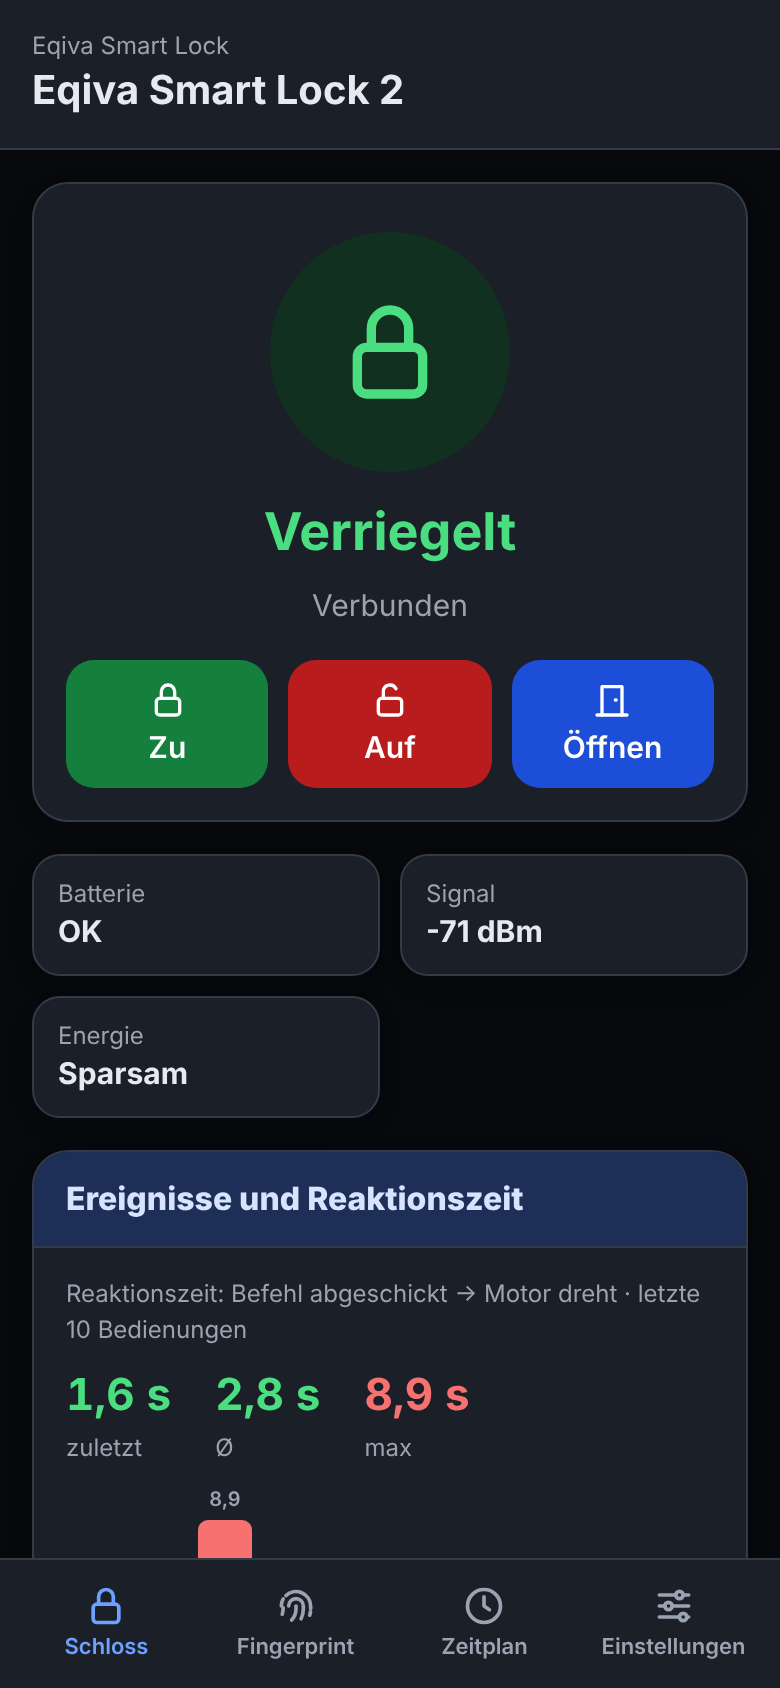
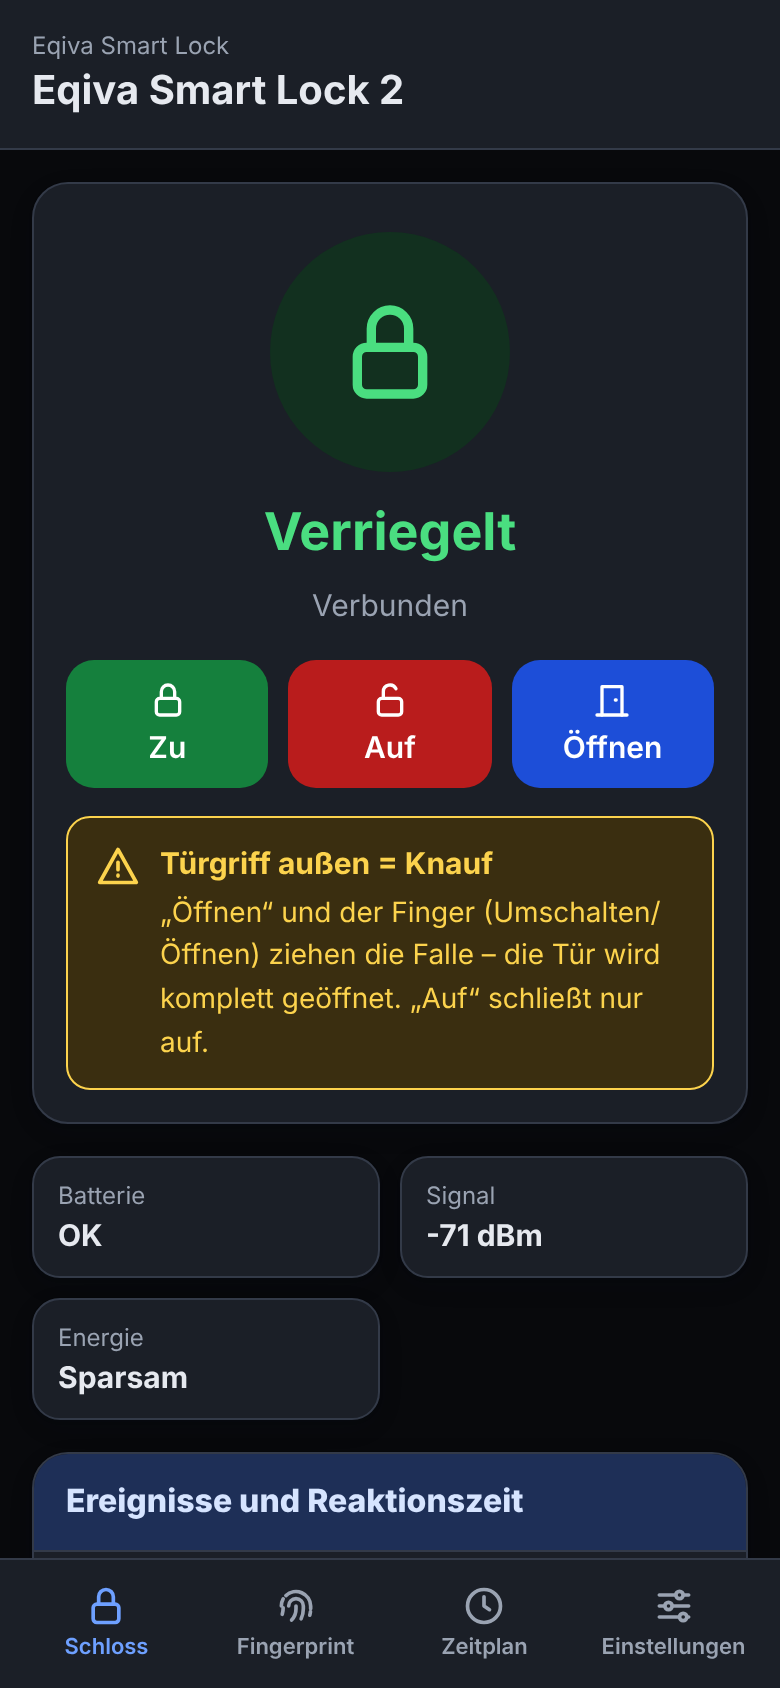
3.5.4: Öffnen-Protokoll, Sabotage-Prüfung, grünes Blinken, Knauf-Hinweise
- Komponente: Öffnen gilt als ausgeführt, wenn 10 s nach UNLOCKED kein OPENED kommt (statt ✗ nach 60 s)
- Komponente: Reaktionszeiten mit "; " getrennt (Umbruch in der Expertenansicht)
- Fingerprint: Sabotage-Prüfung nicht mehr im 1-s-Intervall und nicht während Schlossaktionen; 2× grün nach Erkennen
- Web-App: Knauf-Hinweis auf Startseite und in Einstellungen, Aktionsbeschreibungen passend zu "Türgriff außen"
- Versionsnummern 3.5.4, CHANGELOG (Ordner-Hinweis klarer), ANLEITUNG, PATCH-NOTES, FORK-CHANGES, Screenshots

Claude-Session: https://claude.ai/code/session_01YXeYDb8hKaoF5eCYLR3NkB

diff --git a/examples/eqiva-smart-lock-app.js b/examples/eqiva-smart-lock-app.js
@@ -1,5 +1,5 @@
 // Eqiva Smart Lock – Web-App für die ESPHome-Web-GUI
-// Version 3.5.3 (2026-11-09) – alle Dateien mit gleicher Version gehören zusammen (inkl. eqiva_components)
+// Version 3.5.4 (2026-11-09) – alle Dateien mit gleicher Version gehören zusammen (inkl. eqiva_components)
 // Wird über "web_server: js_include: eqiva-smart-lock-app.js" in die Firmware eingebettet (gzip, ca. 15 KB).
 // Liest alle Werte live über /events (Server-Sent Events) und bedient über die REST-Schnittstelle
 // des ESP (POST /<domain>/<Name>/<aktion>). Läuft ohne Internet. Die ESPHome-Tabelle bleibt als
@@ -7,7 +7,7 @@
 // Fehlt ein Paket (Fingerprint, Zeitplan, …), blendet die App den Bereich einfach aus.
 (function () {
   'use strict';
-  const APP_VERSION = '3.5.3';
+  const APP_VERSION = '3.5.4';
   const GUIDE_URL = 'https://github.com/2nice4u/esphome-components-eqiva/blob/main/docs/ANLEITUNG.md';
 
   // ---------------------------------------------------------------- Zustand
@@ -96,6 +96,10 @@
   const ACTIONS = ['Standard', 'Umschalten', 'Aufschließen', 'Zuschließen', 'Öffnen', 'Nur Klingel', 'Gesperrt'];
   const ACTION_HINT = ['nutzt die Standard-Aktion', 'zu → öffnen, offen → zuschließen', 'nur aufschließen',
     'nur zuschließen', 'aufschließen und Falle ziehen', 'keine Schlossaktion, nur Klingel', 'vorübergehend deaktiviert'];
+  // Beschreibung passend zu "Türgriff außen": bei Türklinke schließen Umschalten/Öffnen nur auf
+  const knauf = () => txt('select/Türgriff außen') !== 'Türklinke';
+  const actionHint = (i) => i === 1 ? (knauf() ? 'zu → öffnen (Falle ziehen), offen → zuschließen' : 'zu → aufschließen, offen → zuschließen') :
+    i === 4 ? (knauf() ? 'aufschließen und Falle ziehen' : 'nur aufschließen (Türgriff außen = Türklinke)') : ACTION_HINT[i];
   const FINGERS = ['Daumen', 'Zeigefinger', 'Mittelfinger', 'Ringfinger', 'Kleiner Finger'];
   const FSHORT = ['Daumen', 'Zeige', 'Mittel', 'Ring', 'Klein'];
   const HANDS = ['Links', 'Rechts'];
@@ -243,7 +247,7 @@
   function reactionHead() {
     if (!has('text_sensor/Reaktionszeiten')) return '';
     const RA = { z: ['lockF', 'zu'], a: ['unlock', 'auf'], o: ['door', 'öffnen'] };
-    const r = txt('text_sensor/Reaktionszeiten').split(';').map((s) => { const p = s.split('|'); return { act: p[0], v: Number(p[1]), src: p[2] || '' }; })
+    const r = txt('text_sensor/Reaktionszeiten').split(/;\s*/).map((s) => { const p = s.split('|'); return { act: p[0], v: Number(p[1]), src: p[2] || '' }; })
       .filter((e) => RA[e.act] && isFinite(e.v));
     if (!r.length) return '';
     const f = (v) => v.toFixed(1).replace('.', ',') + ' s', vals = r.map((e) => e.v), last = r[r.length - 1];
@@ -271,7 +275,8 @@
       btn('unlock', icon('unlock', 20) + 'Auf', 'big r') +
       btn('open', icon('door', 20) + 'Öffnen', 'big bl') +
       '</div>') +
-      (txt('select/Türgriff außen') === 'Türklinke' ? '<p class="note">Türgriff außen = Türklinke: „Öffnen“ schließt nur auf.</p>' : ''));
+      (txt('select/Türgriff außen') === 'Türklinke' ? '<p class="note">Türgriff außen = Türklinke: „Öffnen“ schließt nur auf.</p>' :
+        txt('select/Türgriff außen') === 'Knauf' ? '<div class="knauf">' + icon('alert', 22) + '<div><b>Türgriff außen = Knauf</b><span>„Öffnen“ und der Finger (Umschalten/Öffnen) ziehen die Falle – die Tür wird komplett geöffnet. „Auf“ schließt nur auf.</span></div></div>' : ''));
     const tiles = [];
     if (has('binary_sensor/Batterie schwach')) tiles.push(['Batterie', on('binary_sensor/Batterie schwach') ? 'Schwach' : 'OK', on('binary_sensor/Batterie schwach') ? 'warn' : '']);
     if (has('sensor/Schloss Signal')) { const v = Number(val('sensor/Schloss Signal', NaN)); tiles.push(['Signal', isFinite(v) ? Math.round(v) + ' dBm' : '–', '']); }
@@ -342,7 +347,7 @@
         }).join('') + '</div>';
     } else if (w.step === 3) {
       body = '<p class="q">Was soll der Finger tun?</p><div class="list">' + ACTIONS.map((a, i) =>
-        '<button type="button" class="opt' + (w.action === i ? ' sel' : '') + '" data-a="w-action" data-x="' + i + '"><b>' + a + '</b><span>' + ACTION_HINT[i] + '</span></button>').join('') + '</div>';
+        '<button type="button" class="opt' + (w.action === i ? ' sel' : '') + '" data-a="w-action" data-x="' + i + '"><b>' + a + '</b><span>' + actionHint(i) + '</span></button>').join('') + '</div>';
     } else if (w.step === 4 && w.mode === 'assign') {
       body = '<div class="live"><div class="ring2 rs-blue">' + icon('finger', 44) + '</div>' +
         '<p><b>Jetzt den Finger von Platz ' + w.slot + ' auflegen</b></p>' +
@@ -400,7 +405,7 @@
     if (s.type === 'finger') {
       h = '<h2>' + esc(s.person) + ' · ' + HANDS[s.hand] + ', ' + FINGERS[s.finger] + '</h2><p class="muted">Speicherplatz ' + s.slot + '</p>' +
         '<p class="q">Aktion</p><div class="list">' + ACTIONS.map((a, i) =>
-          '<button type="button" class="opt' + (s.action === i ? ' sel' : '') + '" data-a="f-action" data-x="' + i + '"><b>' + a + '</b><span>' + ACTION_HINT[i] + '</span></button>').join('') + '</div>' +
+          '<button type="button" class="opt' + (s.action === i ? ' sel' : '') + '" data-a="f-action" data-x="' + i + '"><b>' + a + '</b><span>' + actionHint(i) + '</span></button>').join('') + '</div>' +
         '<div class="foot">' + btn('f-reenroll', 'Neu anlernen', 'b') +
         (S.confirm === 'del' ? btn('f-delete', 'Wirklich löschen', 'b danger') : btn('ask-del', 'Löschen', 'b')) + '</div>';
     } else if (s.type === 'person') {
@@ -608,6 +613,8 @@
     if (has('switch/Simulation: Schloss erreichbar')) h += grp('Testmodus (Simulation)', [toggle('switch/Simulation: Schloss erreichbar', 'Schloss erreichbar'),
       num('number/Simulation: Fahrzeit', 'Fahrzeit'), has('button/Simulation: von Hand drehen') ? '<div class="foot">' + btn('press', 'Von Hand drehen', 'b', 'button/Simulation: von Hand drehen') + '</div>' : '']);
     h += grp('Schloss', [choice('select/Energiemodus', 'Energiemodus'), choice('select/Türgriff außen', 'Türgriff außen'),
+      (!has('select/Türgriff außen') ? '' : knauf() ? '<div class="knauf sm">' + icon('alert', 18) + '<span>„Öffnen“ und „Umschalten“ per Finger ziehen die Falle. Der Motor dreht über „auf“ hinaus, bis die Tür frei ist – ohne eingebautes Schloss läuft er dabei lange.</span></div>' :
+        '<p class="muted small">„Öffnen“ und „Umschalten“ schließen nur auf, die Klinke drückt man selbst.</p>'),
       num('number/Ausgewogen: Verbindungsabstand', 'Ausgewogen: Abstand'), num('number/Sparsam: Trennen nach Leerlauf', 'Sparsam: trennen nach'),
       num('number/Sparsam: Status-Abfrage alle', 'Sparsam: Status alle')]);
     h += grp('Fingerprint', [choice('select/Standard-Aktion (Finger ohne Zuordnung)', 'Standard-Aktion'), toggle('switch/Klingel bei unbekanntem Finger', 'Klingel bei unbekanntem Finger'),
@@ -847,7 +854,7 @@ html:not(.eqa-expert) esp-app{display:none}html.eqa-expert #eqa{display:none}
 #eqa-back{position:fixed;right:16px;bottom:16px;z-index:20;display:none;min-height:44px;padding:0 16px;border:0;border-radius:12px;background:#1D4ED8;color:#fff;font:600 14px system-ui,sans-serif;box-shadow:0 4px 14px rgba(0,0,0,.25);cursor:pointer}
 html.eqa-expert #eqa-back{display:block}
 #eqa *{box-sizing:border-box}#eqa h1{margin:0;font-size:20px;font-weight:700}#eqa h2{margin:0 0 8px;font-size:17px;font-weight:700}#eqa h3{margin:0 0 10px;padding-bottom:8px;border-bottom:2px solid var(--accs);font-size:16px;font-weight:700;color:var(--acci)}
-#eqa p{margin:6px 0}#eqa .muted{color:var(--muted)}#eqa .small{font-size:12px}#eqa .note{font-size:13px;color:var(--wr)}
+#eqa p{margin:6px 0}#eqa .muted{color:var(--muted)}#eqa .small{font-size:12px}#eqa .note{font-size:13px;color:var(--wr)}#eqa .knauf{display:flex;gap:10px;align-items:flex-start;margin-top:14px;padding:12px 14px;border-radius:12px;background:var(--wrb);color:var(--wr);border:1.5px solid var(--wr)}#eqa .knauf b{display:block;font-size:15px;margin-bottom:2px}#eqa .knauf span{font-size:14px;line-height:1.35}#eqa .knauf svg{flex:none;margin-top:1px}#eqa .knauf.sm{margin-top:8px;padding:10px 12px}#eqa .knauf.sm span{font-size:13px}
 #eqa header{position:sticky;top:0;z-index:5;display:flex;align-items:center;gap:12px;padding:14px 16px;background:var(--card);border-bottom:1px solid var(--line)}
 #eqa .brand{display:flex;flex-direction:column;flex:1;min-width:0}#eqa .brand h1{white-space:nowrap;overflow:hidden;text-overflow:ellipsis}
 #eqa main{max-width:1100px;margin:0 auto;padding:16px 16px 96px}

diff --git a/components/eqiva_key_ble/eqiva_key_ble.cpp b/components/eqiva_key_ble/eqiva_key_ble.cpp
@@ -588,6 +588,7 @@ void EqivaKeyBle::sendCommand(CommandType command) {
     reaction_act_ = command == LOCK ? 'z' : (command == UNLOCK ? 'a' : 'o');
     reaction_src_ = ev_pending_src_.substr(0, 16);
     ev_reaction_ms_ = 0;
+    ev_open_unlocked_ = false;
     cmd_source_.clear();
   }
   if (this->simulate_) {
@@ -909,11 +910,12 @@ void EqivaKeyBle::sim_tick_() {
 // ---------------------------------------------------------------
 static const char *const EV_TAG = "eqiva_event";
 
-void EqivaKeyBle::log_event(const std::string &text) {
-  time_t now = ::time(nullptr);
-  if (now < 1600000000) now = 0;         // Uhrzeit noch unbekannt
+void EqivaKeyBle::log_event(const std::string &text) { this->log_event_at_(text, ::time(nullptr)); }
+
+void EqivaKeyBle::log_event_at_(const std::string &text, time_t t) {
+  if (t < 1600000000) t = 0;             // Uhrzeit noch unbekannt
   ESP_LOGI(EV_TAG, "%s", text.c_str());
-  events_.push_front({now, text});
+  events_.push_front({t, text});
   while (events_.size() > 10) events_.pop_back();
   this->publish_events_();
 }
@@ -958,11 +960,12 @@ void EqivaKeyBle::on_lock_state_(uint8_t st) {
     reaction_hist_.push_back({reaction_act_, (uint16_t) ms, reaction_src_});
     if (reaction_hist_.size() > 10) reaction_hist_.erase(reaction_hist_.begin());
     if (this->reaction_sensor_ != nullptr) this->reaction_sensor_->publish_state(ms / 1000.0f);
-    // Format je Eintrag: Aktion|Sekunden|Quelle, Einträge mit ";" getrennt (z|4.1|Zeitplan 1;a|3.0|HA/Web)
+    // Format je Eintrag: Aktion|Sekunden|Quelle, Einträge mit "; " getrennt (z|4.1|Zeitplan 1; a|3.0|HA/Web).
+    // Das Leerzeichen erlaubt den Zeilenumbruch in der ESPHome-Expertenansicht.
     std::string list;
     for (size_t i = 0; i < reaction_hist_.size(); i++) {
       char buf[32];
-      snprintf(buf, sizeof(buf), "%s%c|%.1f|", i ? ";" : "", reaction_hist_[i].act, reaction_hist_[i].ms / 1000.0f);
+      snprintf(buf, sizeof(buf), "%s%c|%.1f|", i ? "; " : "", reaction_hist_[i].act, reaction_hist_[i].ms / 1000.0f);
       list += buf + reaction_hist_[i].src;
     }
     this->publish_(this->reaction_list_sensor_, list);
@@ -979,17 +982,10 @@ void EqivaKeyBle::on_lock_state_(uint8_t st) {
   if (ev_pending_ >= 0) {
     const uint8_t want = ev_pending_ == LOCK ? 3 : (ev_pending_ == UNLOCK ? 2 : 4);
     if (st == want) {
-      std::string dur;
-      if (ev_reaction_ms_ > 0) {         // Reaktionszeit mit Dezimalkomma anhängen
-        char b[16];
-        snprintf(b, sizeof(b), " (%.1f s)", ev_reaction_ms_ / 1000.0f);
-        for (char *c = b; *c; c++) if (*c == '.') *c = ',';
-        dur = b;
-      }
-      this->log_event(std::string(icon[st]) + " " + ev_pending_src_ + dur);
-      if (ev_pending_ == OPEN) { hand_quiet_ = true; hand_quiet_since_ = now; }
-      ev_pending_ = -1;
-      ev_reaction_ms_ = 0;
+      this->ev_success_(st, now, ::time(nullptr));
+    } else if (ev_pending_ == OPEN && st == 2 && ev_moved_) {
+      // Öffnen gefahren, Schloss meldet "auf": auf OPENED warten, sonst nach 10 s als Erfolg werten (ev_tick_)
+      if (!ev_open_unlocked_) { ev_open_unlocked_ = true; ev_open_unlocked_ms_ = now; ev_open_unlocked_t_ = ::time(nullptr); }
     } else if (ev_moved_ && !(ev_pending_ == OPEN && st == 2)) {
       // nach der Fahrt ein anderer Endzustand -> Befehl nicht ausgeführt
       this->log_event(std::string("✗ ") + (want == 3 ? "zu" : want == 2 ? "auf" : "öffnen") + " " +
@@ -1011,17 +1007,38 @@ void EqivaKeyBle::on_lock_state_(uint8_t st) {
   ev_last_state_ = st;
 }
 
+// Befehl bestätigt: Ereignis "🔒 Quelle (2,4 s)" mit Zeitpunkt t
+void EqivaKeyBle::ev_success_(uint8_t st, uint32_t now, time_t t) {
+  static const char *const icon[] = {"", "", "🔓", "🔒", "🚪"};
+  std::string dur;
+  if (ev_reaction_ms_ > 0) {             // Reaktionszeit mit Dezimalkomma anhängen
+    char b[16];
+    snprintf(b, sizeof(b), " (%.1f s)", ev_reaction_ms_ / 1000.0f);
+    for (char *c = b; *c; c++) if (*c == '.') *c = ',';
+    dur = b;
+  }
+  this->log_event_at_(std::string(icon[st]) + " " + ev_pending_src_ + dur, t);
+  if (ev_pending_ == OPEN) { hand_quiet_ = true; hand_quiet_since_ = now; }
+  ev_pending_ = -1;
+  ev_reaction_ms_ = 0;
+  ev_open_unlocked_ = false;
+}
+
 void EqivaKeyBle::ev_fail_(const char *why) {
   if (ev_pending_ < 0) return;
   static const char *const w[] = {"zu", "auf", "öffnen"};
   this->log_event(std::string("✗ ") + w[ev_pending_ <= 2 ? ev_pending_ : 0] + " " + ev_pending_src_ +
                   " (" + why + ")");
   ev_pending_ = -1;
+  ev_open_unlocked_ = false;
   hand_quiet_ = true;
   hand_quiet_since_ = millis();
 }
 
 void EqivaKeyBle::ev_tick_() {
+  // Öffnen ohne OPENED-Meldung: 10 s nach "auf" als ausgeführt werten (Zeitpunkt = Meldung "auf")
+  if (ev_pending_ == OPEN && ev_open_unlocked_ && (millis() - ev_open_unlocked_ms_) >= OPEN_NO_OPENED_MS)
+    this->ev_success_(4, ev_open_unlocked_ms_, ev_open_unlocked_t_);
   if (ev_pending_ >= 0 && (millis() - ev_pending_at_) > 60000) this->ev_fail_("keine Bestätigung");
   // Tageswechsel: gestrige Einträge bekommen ihr Datum
   static int last_yday = -1;

diff --git a/components/eqiva_key_ble/eqiva_key_ble.h b/components/eqiva_key_ble/eqiva_key_ble.h
@@ -28,7 +28,7 @@ namespace eqiva_key_ble {
 using namespace esp32_ble_client;
 
 // Version der gepatchten Komponente (gehört zu den Beispiel-YAMLs mit gleicher Version)
-#define EQIVA_PATCH_VERSION "3.5.3"
+#define EQIVA_PATCH_VERSION "3.5.4"
 
 // Patch-Konstanten
 static const uint32_t SEND_TIMEOUT_MS = 3000;      // Timeout für Fragment-Write / Nonce-Antwort
@@ -121,6 +121,14 @@ class EqivaKeyBle : public BLEClientBase {
     uint32_t ev_pending_at_{0};
     bool ev_moved_{false};               // seit dem Befehl MOVING gesehen
     uint32_t ev_reaction_ms_{0};         // gemessene Reaktionszeit des laufenden Befehls, 0 = keine
+    // Öffnen: manche Schlösser (z. B. ohne Falle/Tür) melden danach nur UNLOCKED, nie OPENED.
+    // Kommt binnen 10 s kein OPENED, zählt das Öffnen ab der UNLOCKED-Meldung als ausgeführt.
+    bool ev_open_unlocked_{false};
+    uint32_t ev_open_unlocked_ms_{0};
+    time_t ev_open_unlocked_t_{0};
+    static const uint32_t OPEN_NO_OPENED_MS = 10000;
+    void ev_success_(uint8_t st, uint32_t now, time_t t);
+    void log_event_at_(const std::string &text, time_t t);
     // Kurze Sperre der "von Hand"-Erkennung: nach Öffnen (Falle springt zurück) und nach
     // nicht bestätigten Befehlen (Schloss fährt evtl. verspätet). Sonst zählt jede Drehung sofort.
     uint32_t hand_quiet_since_{0};

diff --git a/docs/ANLEITUNG.md b/docs/ANLEITUNG.md
@@ -1,6 +1,6 @@
 # Eqiva Smart Lock – Anleitung & Hilfe
 
-Gilt für Version 3.5.3 (Komponente, Pakete und Web-App mit gleicher Versionsnummer).
+Gilt für Version 3.5.4 (Komponente, Pakete und Web-App mit gleicher Versionsnummer).
 Änderungen: [CHANGELOG.md](../CHANGELOG.md)
 
 ## Die Web-App
@@ -73,7 +73,9 @@ Was „Öffnen“ macht, hängt von der Auswahl **„Türgriff außen“** (Schl
 | **Knauf** (Standard) | Tür wird **komplett geöffnet** und lässt sich von außen aufziehen |
 | **Türklinke** | wie „Aufschließen“ – die Klinke drückt man selbst. Ist das Schloss schon auf, passiert nichts. |
 
-> Gilt für alle Wege: Web-GUI, Home Assistant (`lock.open`) und Fingerprint mit Aktion „Öffnen“. Beim kompletten Öffnen meldet „Lock Status“ kurz **OPENED**, beim reinen Aufschließen nicht.
+> Gilt für alle Wege: Web-GUI, Home Assistant (`lock.open`) und Fingerprint mit Aktion „Öffnen“ oder „Umschalten“. Bei „Knauf“ zeigt die Startseite das als gelben Hinweis unter den Knöpfen, die Einstellungen erklären es unter der Auswahl. Beim kompletten Öffnen meldet „Lock Status“ kurz **OPENED**, beim reinen Aufschließen nicht.
+
+> **Am Tisch (ohne Tür und Zylinder)** findet das Schloss beim Öffnen keinen Anschlag: Der Motor dreht dann lange (ca. 25 s) und meldet danach nur „auf“. Die Ereignisse zeigen trotzdem „🚪 …“, sobald 10 s nach „auf“ kein OPENED kommt. Zum Testen am Tisch „Türgriff außen“ auf **Türklinke** stellen.
 
 **Ereignisse** zeigt die letzten 10 Ereignisse, neueste zuerst, z. B. `18:42 🔓 Max R-Daumen (1,6 s) · 18:05 🔒 Zeitplan 1 (2,4 s) · 17:30 🖐 🔓 von Hand · 06.11. 22:10 🔔 unbekannter Finger`. **HA/Web** = Home Assistant oder die Web-GUI · **🖐 von Hand** = Schlüssel, Drehknauf oder Taste am Schloss · **✗** = Befehl nicht ausgeführt (Grund in Klammern) · ⛔ abgewiesen · ❓ unbekannter Finger · ⚠ Sabotage. Ältere Einträge fallen weg, wenn die 255 Zeichen von Home Assistant voll sind; alle stehen im Log. „Von Hand“ erkennt der ESP, sobald das Schloss den neuen Zustand meldet – auch direkt nach einem Befehl (z. B. zugeschlossen und gleich wieder von Hand aufgedreht). Nur 10 s nach „Öffnen“ (Falle springt zurück) und nach einem nicht ausgeführten Befehl zählt eine Drehung nicht. Im Energiemodus „Sparsam“ meldet das Schloss nur, solange die Verbindung besteht (nach einem Befehl standardmäßig 30 s); sonst sieht der ESP die Handbedienung erst beim nächsten Verbinden und nur den Endzustand. Nach einem Neustart ist die Liste leer.
 
@@ -144,7 +146,8 @@ Die Übersicht **„Angelernte Finger“** zeigt alle Finger, z. B. `#0 St R-Dau
 | Ring | Bedeutung |
 |---|---|
 | 🔵 blau | Finger wird gelesen |
-| 🟢 grün atmend | erkannt – Aktion läuft. Finger darf weg. |
+| 🟢 2× kurz grün | Finger erkannt (kommt sofort, auch wenn erst noch verbunden wird) |
+| 🟢 grün atmend | Aktion läuft. Finger darf weg. |
 | 🟢 grün, 2 s an | bestätigt: **verriegelt** |
 | 🔴 rot, 2 s an | bestätigt: **aufgeschlossen / geöffnet** |
 | 🔴 rot atmend | Finger nicht erkannt |

diff --git a/CHANGELOG.md b/CHANGELOG.md
@@ -23,6 +23,31 @@ Die Nummern bis 1.3.0 wurden nicht ganz nach diesen Regeln vergeben; der Handlun
 dort nur die unter „Handlungsbedarf“ genannten Stellen übernehmen. Pakete, `app.js` und `eqiva_components/`
 werden von allen Schlössern gemeinsam genutzt und einfach ersetzt.
 
+## 3.5.4 – 2026-11-09
+
+### Behoben
+- **Öffnen wurde als Fehlschlag protokolliert**, wenn das Schloss danach nur „auf“ und nie „geöffnet“ meldet
+  (z. B. am Tisch ohne Tür und Zylinder): nach 60 s stand „✗ öffnen … (keine Bestätigung)“ statt „🚪 …“.
+  Jetzt zählt das Öffnen als ausgeführt, wenn 10 s nach „auf“ kein „geöffnet“ kommt (Zeitpunkt = Meldung „auf“).
+- **Kurze Blockade durch die Sabotage-Prüfung** des Fingerprint-Sensors („interval took a long time“, bis ca. 1,5 s):
+  Die Prüfung läuft nicht mehr im 1-s-Intervall und wartet, bis das Schloss nicht beschäftigt ist
+  (Motor läuft, Verbindung wird aufgebaut). Der Sensorzugriff selbst blockiert weiterhin kurz, aber nicht mehr während einer Schlossaktion.
+- **„Reaktionszeiten“ lief in der Expertenansicht über den Rand:** Die Einträge sind jetzt mit `; ` (Semikolon + Leerzeichen)
+  getrennt, damit der Text umbricht. Die Web-App liest beide Schreibweisen.
+
+### Neu
+- **Fingerprint: 2× kurz grün direkt nach dem Erkennen**, auch wenn danach erst verbunden wird (türkis). Der Befehl geht dabei sofort raus.
+- **Türgriff außen deutlicher erklärt:** Bei „Knauf“ steht auf der Startseite ein gelber Hinweis unter den Knöpfen
+  („Öffnen“ und der Finger mit Umschalten/Öffnen ziehen die Falle, die Tür wird komplett geöffnet; „Auf“ schließt nur auf),
+  in den Einstellungen eine Erklärung unter der Auswahl. Die Beschreibungen der Finger-Aktionen „Umschalten“ und „Öffnen“
+  passen sich der Einstellung an.
+
+### Update
+- Pakete, `app.js` und den Komponenten-Ordner ersetzen, flashen. Im Release-ZIP bzw. Repo heißt der Ordner `components/`
+  (darin `eqiva_ble/` und `eqiva_key_ble/`); lokal heißt er so, wie bei `path:` unter `external_components` eingetragen,
+  in der Vorlage `eqiva_components/`.
+- Eigene Hauptdatei: nur `config_version: "3.5.4"` setzen, sonst nichts ändern.
+
 ## 3.5.3 – 2026-11-09
 
 ### Neu

diff --git a/FORK-CHANGES.md b/FORK-CHANGES.md
@@ -1,6 +1,6 @@
 # Änderungen in diesem Fork
 
-**Version 3.5.3** (2026-11-09) – Komponente, Beispiel-YAMLs und Anleitung tragen dieselbe Versionsnummer.
+**Version 3.5.4** (2026-11-09) – Komponente, Beispiel-YAMLs und Anleitung tragen dieselbe Versionsnummer.
 1.1.0: Fingerprint-Paket mit Zuordnung Person/Hand/Finger, Aktion pro Finger (inkl. Umschalten), Ring-Rückmeldung und Scan-Pause.
 1.1.1: Pinbelegung als Substitutions, R503-Stromabschaltung per PNP-Transistor (sensor_power_pin), mehrere Status-LEDs.
 1.2.0: Paket Zeitplan (2 Zeitpläne mit Uhrzeit, Wochentagen und Aktion, SNTP).
@@ -40,6 +40,7 @@
 3.5.1: Reaktionszeiten speichern Aktion (zu/auf/öffnen) und Quelle; Piktogramme in Balken und Liste der Web-App.
 3.5.2: Startseite mit Karte „Ereignisse und Reaktionszeit“, Reaktionszeit auch im Ereignistext.
 3.5.3: Zeitpläne mit zufälliger Abweichung, Handbedienung direkt nach Befehl erkannt, mehr Kontrast in der Web-App.
+3.5.4: Öffnen ohne OPENED-Meldung korrekt protokolliert, Sabotage-Prüfung blockiert nicht mehr während Schlossaktionen, grünes Blinken nach Fingererkennung, Knauf-Hinweise.
 
 Basis: github.com/digaus/esphome-components-eqiva, Stand `main` vom 22.08.2026 (Fix für ESPHome 2026.8).
 
@@ -47,7 +48,7 @@ Basis: github.com/digaus/esphome-components-eqiva, Stand `main` vom 22.08.2026 (
 
 ```yaml
 external_components:
-  - source: github://DEIN-GITHUB-NAME/esphome-components-eqiva@v3.5.3
+  - source: github://DEIN-GITHUB-NAME/esphome-components-eqiva@v3.5.4
 ```
 
 Vollständiges Beispiel mit Web-GUI, Energiemodi, Pairing-Info, optionalem R503-Fingerprint und Status-LED:

diff --git a/components/PATCH-NOTES.md b/components/PATCH-NOTES.md
@@ -1,6 +1,6 @@
 # Eqiva Key-BLE – gepatchte Version
 
-**Version 3.5.3** (2026-11-09) – Komponente mit Testmodus (simulate) und Ereignisprotokoll (`events`), Reaktionszeit (`reaction_time`, `reaction_list`), passend zu den Beispiel-YAMLs und der Anleitung mit gleicher Version.
+**Version 3.5.4** (2026-11-09) – Komponente mit Testmodus (simulate) und Ereignisprotokoll (`events`), Reaktionszeit (`reaction_time`, `reaction_list`), passend zu den Beispiel-YAMLs und der Anleitung mit gleicher Version.
 
 Basis: github.com/digaus/esphome-components-eqiva, Stand `main` vom 22.08.2026 (Fix für ESPHome 2026.8).
 

diff --git a/README.md b/README.md
@@ -43,7 +43,7 @@ Die Bilder zeigen Testdaten, keine echten Personen oder Bedienungen.
 
    ```yaml
    external_components:
-     - source: github://2nice4u/esphome-components-eqiva@v3.5.3
+     - source: github://2nice4u/esphome-components-eqiva@v3.5.4
    ```
 
    YAMLs und Komponente gehören zusammen. Für ein Update die Dateien des neuen
